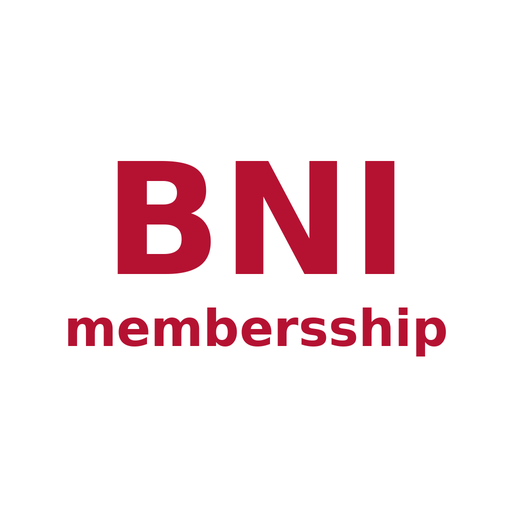
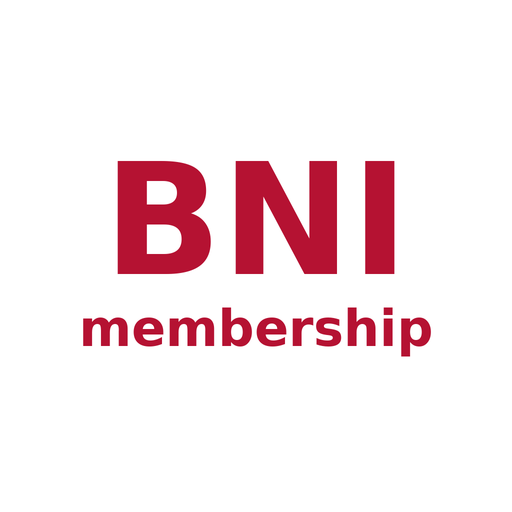
Publish BNI membership branding across the app

Changed region(s): [[0.125, 0.5938, 0.875, 0.7188]]

diff --git a/committee/style.css b/committee/style.css
@@ -1,6 +1,6 @@
 :root{color-scheme:light;--red:#b51232;--accent:#d5274a;--ink:#20202b;--muted:#626373;--line:#e8e7ed;--bg:#f5f5f8;--shadow:0 3px 13px #231f3610;font-family:Inter,system-ui,-apple-system,BlinkMacSystemFont,"Noto Sans KR","Malgun Gothic",sans-serif;color:var(--ink);background:var(--bg)}
 *{box-sizing:border-box} body{margin:0}button,input,textarea,select{font:inherit}button{cursor:pointer}button,input,select,textarea{min-height:44px}button{color:inherit}button:focus-visible,input:focus-visible,select:focus-visible,textarea:focus-visible,summary:focus-visible{outline:3px solid #f07692;outline-offset:3px}button:disabled{opacity:.55}h1,h2,p{margin:0}p{line-height:1.6}small{font-size:.78rem}main{width:min(100% - 36px,1080px);margin:auto;padding:34px 0 calc(100px + env(safe-area-inset-bottom))}
-.top{background:#fff;border-bottom:1px solid var(--line);position:sticky;top:0;z-index:3;padding-top:env(safe-area-inset-top)}.top-inner{width:min(100% - 36px,1080px);margin:auto;display:flex;align-items:center;justify-content:space-between;min-height:68px}.brand{display:flex;align-items:center;gap:12px;padding:0;text-align:left;border:0;background:none}.brand strong{display:block;font-size:1.12rem;letter-spacing:.04em}.brand small{display:block;color:var(--muted);font-size:.7rem;margin-top:2px}.mark{width:40px;height:40px;background:var(--red);border-radius:11px;color:white;display:grid;place-items:center;font-weight:900;font-size:1.45rem;position:relative;overflow:hidden}.mark:before,.metric:before{content:"";position:absolute;inset:0 auto auto 0;border-top:13px solid #ed7390;border-right:13px solid transparent}.top-actions{display:flex;gap:7px}.icon-button{border:1px solid var(--line);background:#fff;border-radius:11px;min-width:44px;font-size:1.35rem;padding:0}.bell{position:relative}.bell:after{content:"";position:absolute;right:9px;top:9px;width:6px;height:6px;border-radius:50%;background:var(--accent)}
+.top{background:#fff;border-bottom:1px solid var(--line);position:sticky;top:0;z-index:3;padding-top:env(safe-area-inset-top)}.top-inner{width:min(100% - 36px,1080px);margin:auto;display:flex;align-items:center;justify-content:space-between;min-height:68px}.brand{display:flex;align-items:center;gap:12px;padding:0;text-align:left;border:0;background:none}.brand strong{display:block;color:var(--red);font-size:1.08rem;letter-spacing:0}.brand small{display:block;color:var(--muted);font-size:.7rem;margin-top:2px}.brand-icon{flex:none;width:44px;height:44px;border:1px solid #ebd9de;border-radius:11px;background:white}.metric:before{content:"";position:absolute;inset:0 auto auto 0;border-top:13px solid #ed7390;border-right:13px solid transparent}.top-actions{display:flex;gap:7px}.icon-button{border:1px solid var(--line);background:#fff;border-radius:11px;min-width:44px;font-size:1.35rem;padding:0}.bell{position:relative}.bell:after{content:"";position:absolute;right:9px;top:9px;width:6px;height:6px;border-radius:50%;background:var(--accent)}
 .bottom{position:fixed;z-index:4;bottom:0;left:0;right:0;background:#fff;border-top:1px solid var(--line);padding-bottom:env(safe-area-inset-bottom)}.bottom>div{display:flex;max-width:620px;margin:auto}.bottom button{flex:1;display:grid;justify-items:center;gap:3px;padding:7px 2px;border:0;background:none;font-size:.72rem;color:var(--muted);min-height:61px}.bottom .symbol{font-size:1.4rem}.bottom [aria-current]{color:var(--red);font-weight:800}.bottom [aria-current] .symbol{background:#fff0f3;border-radius:10px;padding:0 12px}
 .welcome{display:flex;align-items:flex-end;justify-content:space-between;gap:8px;margin-bottom:23px}.welcome h1,.page-head h1{font-size:clamp(1.56rem,4vw,2.35rem);letter-spacing:-.065em;line-height:1.18;margin:6px 0 7px}.welcome p,.page-head p,.muted{font-size:.88rem;color:var(--muted)}.eyebrow{font-size:.67rem;color:var(--red);font-weight:800;letter-spacing:.13em}.eyebrow i{display:inline-block;width:6px;height:6px;background:var(--accent);border-radius:50%;margin-right:4px}.pill{display:inline-block;background:#fff0f3;color:#a0102d;padding:5px 9px;border-radius:99px;font-size:.71rem;font-weight:750;white-space:nowrap}.pill.green{color:#196446;background:#eaf8ef}
 .hero{position:relative;isolation:isolate;overflow:hidden;display:flex;align-items:flex-end;justify-content:space-between;gap:14px;background:linear-gradient(114deg,#9c102a,#c4193d 67%,#d82d51);color:#fff;border-radius:19px;padding:25px 29px;box-shadow:0 8px 23px #9c102a33}.hero-info h2{font-size:clamp(1.65rem,5vw,2.5rem);letter-spacing:-.06em;margin:7px 0 3px}.hero-info p{font-size:.83rem;color:#ffe1e8}.hero-label{font-size:.73rem;font-weight:700;background:#ffffff24;padding:6px 11px;border-radius:20px}.hero-art{position:absolute;z-index:-1;right:-32px;top:-91px;width:335px;height:335px;border:38px solid #fff1;border-radius:50%;box-shadow:0 0 0 31px #fff1;transform:scaleX(1.13)}.hero-actions{display:flex;flex-wrap:wrap;gap:8px}.hero-button,.hero-outline{border:1px solid #fff8;border-radius:9px;font-weight:750;font-size:.81rem;padding:0 12px}.hero-button{background:white;color:var(--red)}.hero-outline{background:#fff2;color:#fff}

diff --git a/style.css b/style.css
@@ -1,6 +1,6 @@
 :root{color-scheme:light;--red:#b51232;--accent:#d5274a;--ink:#20202b;--muted:#626373;--line:#e8e7ed;--bg:#f5f5f8;--shadow:0 3px 13px #231f3610;font-family:Inter,system-ui,-apple-system,BlinkMacSystemFont,"Noto Sans KR","Malgun Gothic",sans-serif;color:var(--ink);background:var(--bg)}
 *{box-sizing:border-box} body{margin:0}button,input,textarea,select{font:inherit}button{cursor:pointer}button,input,select,textarea{min-height:44px}button{color:inherit}button:focus-visible,input:focus-visible,select:focus-visible,textarea:focus-visible,summary:focus-visible{outline:3px solid #f07692;outline-offset:3px}button:disabled{opacity:.55}h1,h2,p{margin:0}p{line-height:1.6}small{font-size:.78rem}main{width:min(100% - 36px,1080px);margin:auto;padding:34px 0 calc(100px + env(safe-area-inset-bottom))}
-.top{background:#fff;border-bottom:1px solid var(--line);position:sticky;top:0;z-index:3;padding-top:env(safe-area-inset-top)}.top-inner{width:min(100% - 36px,1080px);margin:auto;display:flex;align-items:center;justify-content:space-between;min-height:68px}.brand{display:flex;align-items:center;gap:12px;padding:0;text-align:left;border:0;background:none}.brand strong{display:block;font-size:1.12rem;letter-spacing:.04em}.brand small{display:block;color:var(--muted);font-size:.7rem;margin-top:2px}.mark{width:40px;height:40px;background:var(--red);border-radius:11px;color:white;display:grid;place-items:center;font-weight:900;font-size:1.45rem;position:relative;overflow:hidden}.mark:before,.metric:before{content:"";position:absolute;inset:0 auto auto 0;border-top:13px solid #ed7390;border-right:13px solid transparent}.top-actions{display:flex;gap:7px}.icon-button{border:1px solid var(--line);background:#fff;border-radius:11px;min-width:44px;font-size:1.35rem;padding:0}.bell{position:relative}.bell:after{content:"";position:absolute;right:9px;top:9px;width:6px;height:6px;border-radius:50%;background:var(--accent)}
+.top{background:#fff;border-bottom:1px solid var(--line);position:sticky;top:0;z-index:3;padding-top:env(safe-area-inset-top)}.top-inner{width:min(100% - 36px,1080px);margin:auto;display:flex;align-items:center;justify-content:space-between;min-height:68px}.brand{display:flex;align-items:center;gap:12px;padding:0;text-align:left;border:0;background:none}.brand strong{display:block;color:var(--red);font-size:1.08rem;letter-spacing:0}.brand small{display:block;color:var(--muted);font-size:.7rem;margin-top:2px}.brand-icon{flex:none;width:44px;height:44px;border:1px solid #ebd9de;border-radius:11px;background:white}.metric:before{content:"";position:absolute;inset:0 auto auto 0;border-top:13px solid #ed7390;border-right:13px solid transparent}.top-actions{display:flex;gap:7px}.icon-button{border:1px solid var(--line);background:#fff;border-radius:11px;min-width:44px;font-size:1.35rem;padding:0}.bell{position:relative}.bell:after{content:"";position:absolute;right:9px;top:9px;width:6px;height:6px;border-radius:50%;background:var(--accent)}
 .bottom{position:fixed;z-index:4;bottom:0;left:0;right:0;background:#fff;border-top:1px solid var(--line);padding-bottom:env(safe-area-inset-bottom)}.bottom>div{display:flex;max-width:620px;margin:auto}.bottom button{flex:1;display:grid;justify-items:center;gap:3px;padding:7px 2px;border:0;background:none;font-size:.72rem;color:var(--muted);min-height:61px}.bottom .symbol{font-size:1.4rem}.bottom [aria-current]{color:var(--red);font-weight:800}.bottom [aria-current] .symbol{background:#fff0f3;border-radius:10px;padding:0 12px}
 .welcome{display:flex;align-items:flex-end;justify-content:space-between;gap:8px;margin-bottom:23px}.welcome h1,.page-head h1{font-size:clamp(1.56rem,4vw,2.35rem);letter-spacing:-.065em;line-height:1.18;margin:6px 0 7px}.welcome p,.page-head p,.muted{font-size:.88rem;color:var(--muted)}.eyebrow{font-size:.67rem;color:var(--red);font-weight:800;letter-spacing:.13em}.eyebrow i{display:inline-block;width:6px;height:6px;background:var(--accent);border-radius:50%;margin-right:4px}.pill{display:inline-block;background:#fff0f3;color:#a0102d;padding:5px 9px;border-radius:99px;font-size:.71rem;font-weight:750;white-space:nowrap}.pill.green{color:#196446;background:#eaf8ef}
 .hero{position:relative;isolation:isolate;overflow:hidden;display:flex;align-items:flex-end;justify-content:space-between;gap:14px;background:linear-gradient(114deg,#9c102a,#c4193d 67%,#d82d51);color:#fff;border-radius:19px;padding:25px 29px;box-shadow:0 8px 23px #9c102a33}.hero-info h2{font-size:clamp(1.65rem,5vw,2.5rem);letter-spacing:-.06em;margin:7px 0 3px}.hero-info p{font-size:.83rem;color:#ffe1e8}.hero-label{font-size:.73rem;font-weight:700;background:#ffffff24;padding:6px 11px;border-radius:20px}.hero-art{position:absolute;z-index:-1;right:-32px;top:-91px;width:335px;height:335px;border:38px solid #fff1;border-radius:50%;box-shadow:0 0 0 31px #fff1;transform:scaleX(1.13)}.hero-actions{display:flex;flex-wrap:wrap;gap:8px}.hero-button,.hero-outline{border:1px solid #fff8;border-radius:9px;font-weight:750;font-size:.81rem;padding:0 12px}.hero-button{background:white;color:var(--red)}.hero-outline{background:#fff2;color:#fff}

diff --git a/app.js b/app.js
@@ -57,7 +57,7 @@ async function save(changes){
 }
 const upsert=(table,row)=>({table,row});
 function header(){
-  return `<header class="top"><div class="top-inner"><button class="brand" data-action="go:home" aria-label="홈"><span class="mark">M</span><span><strong>BNI MIDAS</strong><small>멤버십위원회 워크스페이스</small></span></button><div class="top-actions"><button class="icon-button bell" data-action="go:alerts" aria-label="알림"><svg width="20" height="20" viewBox="0 0 24 24" fill="none" stroke="currentColor" stroke-width="1.8" stroke-linecap="round" stroke-linejoin="round" aria-hidden="true"><path d="M18 8a6 6 0 0 0-12 0c0 7-3 7-3 9h18c0-2-3-2-3-9m-8 12a2 2 0 0 0 4 0"/></svg></button> <button class="icon-button" data-action="go:all" aria-label="전체 메뉴">☰</button></div></div></header>`;
+  return `<header class="top"><div class="top-inner"><button class="brand" data-action="go:home" aria-label="홈"><img class="brand-icon" src="icon-192.png?v=3" alt="" width="44" height="44"><span><strong>BNI membership</strong><small>멤버십위원회 워크스페이스</small></span></button><div class="top-actions"><button class="icon-button bell" data-action="go:alerts" aria-label="알림"><svg width="20" height="20" viewBox="0 0 24 24" fill="none" stroke="currentColor" stroke-width="1.8" stroke-linecap="round" stroke-linejoin="round" aria-hidden="true"><path d="M18 8a6 6 0 0 0-12 0c0 7-3 7-3 9h18c0-2-3-2-3-9m-8 12a2 2 0 0 0 4 0"/></svg></button> <button class="icon-button" data-action="go:all" aria-label="전체 메뉴">☰</button></div></div></header>`;
 }
 function nav(){
   return `<nav class="bottom" aria-label="주 메뉴"><div>${[['home','홈','⌂'],['board','업무','▤'],['members','멤버','♙'],['mpe','심사','☆'],['all','전체','⊞']].filter(([id])=>canOpen(id)).map(([id,label,symbol])=>`<button data-action="go:${id}" ${route()===id?'aria-current="page"':''}>${icon(symbol)}<span>${label}</span></button>`).join('')}</div></nav>`;

diff --git a/committee/app.js b/committee/app.js
@@ -57,7 +57,7 @@ async function save(changes){
 }
 const upsert=(table,row)=>({table,row});
 function header(){
-  return `<header class="top"><div class="top-inner"><button class="brand" data-action="go:home" aria-label="홈"><span class="mark">M</span><span><strong>BNI MIDAS</strong><small>멤버십위원회 워크스페이스</small></span></button><div class="top-actions"><button class="icon-button bell" data-action="go:alerts" aria-label="알림"><svg width="20" height="20" viewBox="0 0 24 24" fill="none" stroke="currentColor" stroke-width="1.8" stroke-linecap="round" stroke-linejoin="round" aria-hidden="true"><path d="M18 8a6 6 0 0 0-12 0c0 7-3 7-3 9h18c0-2-3-2-3-9m-8 12a2 2 0 0 0 4 0"/></svg></button> <button class="icon-button" data-action="go:all" aria-label="전체 메뉴">☰</button></div></div></header>`;
+  return `<header class="top"><div class="top-inner"><button class="brand" data-action="go:home" aria-label="홈"><img class="brand-icon" src="icon-192.png?v=3" alt="" width="44" height="44"><span><strong>BNI membership</strong><small>멤버십위원회 워크스페이스</small></span></button><div class="top-actions"><button class="icon-button bell" data-action="go:alerts" aria-label="알림"><svg width="20" height="20" viewBox="0 0 24 24" fill="none" stroke="currentColor" stroke-width="1.8" stroke-linecap="round" stroke-linejoin="round" aria-hidden="true"><path d="M18 8a6 6 0 0 0-12 0c0 7-3 7-3 9h18c0-2-3-2-3-9m-8 12a2 2 0 0 0 4 0"/></svg></button> <button class="icon-button" data-action="go:all" aria-label="전체 메뉴">☰</button></div></div></header>`;
 }
 function nav(){
   return `<nav class="bottom" aria-label="주 메뉴"><div>${[['home','홈','⌂'],['board','업무','▤'],['members','멤버','♙'],['mpe','심사','☆'],['all','전체','⊞']].filter(([id])=>canOpen(id)).map(([id,label,symbol])=>`<button data-action="go:${id}" ${route()===id?'aria-current="page"':''}>${icon(symbol)}<span>${label}</span></button>`).join('')}</div></nav>`;

diff --git a/committee/index.html b/committee/index.html
@@ -7,11 +7,11 @@
 <meta name="description" content="미다스챕터 멤버십위원회 전용 업무관리 서비스">
 <meta name="apple-mobile-web-app-capable" content="yes">
 <link rel="manifest" href="manifest.webmanifest">
-<meta name="apple-mobile-web-app-title" content="BNI membersship">
-<link rel="apple-touch-icon" href="icon-192.png?v=2">
-<link rel="icon" type="image/png" href="icon-192.png?v=2">
+<meta name="apple-mobile-web-app-title" content="BNI membership">
+<link rel="apple-touch-icon" href="icon-192.png?v=3">
+<link rel="icon" type="image/png" href="icon-192.png?v=3">
 <link rel="stylesheet" href="style.css">
-<title>BNI MIDAS · 멤버십위원회</title>
+<title>BNI membership · 미다스 멤버십위원회</title>
 </head>
 <body>
 <div id="app"><p class="loading">업무 공간을 불러오는 중입니다.</p></div>

diff --git a/index.html b/index.html
@@ -7,11 +7,11 @@
 <meta name="description" content="미다스챕터 멤버십위원회 전용 업무관리 서비스">
 <meta name="apple-mobile-web-app-capable" content="yes">
 <link rel="manifest" href="manifest.webmanifest">
-<meta name="apple-mobile-web-app-title" content="BNI membersship">
-<link rel="apple-touch-icon" href="icon-192.png?v=2">
-<link rel="icon" type="image/png" href="icon-192.png?v=2">
+<meta name="apple-mobile-web-app-title" content="BNI membership">
+<link rel="apple-touch-icon" href="icon-192.png?v=3">
+<link rel="icon" type="image/png" href="icon-192.png?v=3">
 <link rel="stylesheet" href="style.css">
-<title>BNI MIDAS · 멤버십위원회</title>
+<title>BNI membership · 미다스 멤버십위원회</title>
 </head>
 <body>
 <div id="app"><p class="loading">업무 공간을 불러오는 중입니다.</p></div>

diff --git a/committee/sw.js b/committee/sw.js
@@ -1,5 +1,5 @@
-const cacheName='midas-shell-13';
-const files=['./','./index.html','./app.js','./model.js','./storage.js','./forms.js','./media.js','./style.css','./manifest.webmanifest','./icon-192.png?v=2','./icon-512.png?v=2'];
+const cacheName='midas-shell-14';
+const files=['./','./index.html','./app.js','./model.js','./storage.js','./forms.js','./media.js','./style.css','./manifest.webmanifest','./icon-192.png?v=3','./icon-512.png?v=3'];
 self.addEventListener('install',event=>event.waitUntil((async()=>{
   const cache=await caches.open(cacheName);
   await cache.addAll(files);

diff --git a/sw.js b/sw.js
@@ -1,5 +1,5 @@
-const cacheName='midas-shell-13';
-const files=['./','./index.html','./app.js','./model.js','./storage.js','./forms.js','./media.js','./style.css','./manifest.webmanifest','./icon-192.png?v=2','./icon-512.png?v=2'];
+const cacheName='midas-shell-14';
+const files=['./','./index.html','./app.js','./model.js','./storage.js','./forms.js','./media.js','./style.css','./manifest.webmanifest','./icon-192.png?v=3','./icon-512.png?v=3'];
 self.addEventListener('install',event=>event.waitUntil((async()=>{
   const cache=await caches.open(cacheName);
   await cache.addAll(files);
